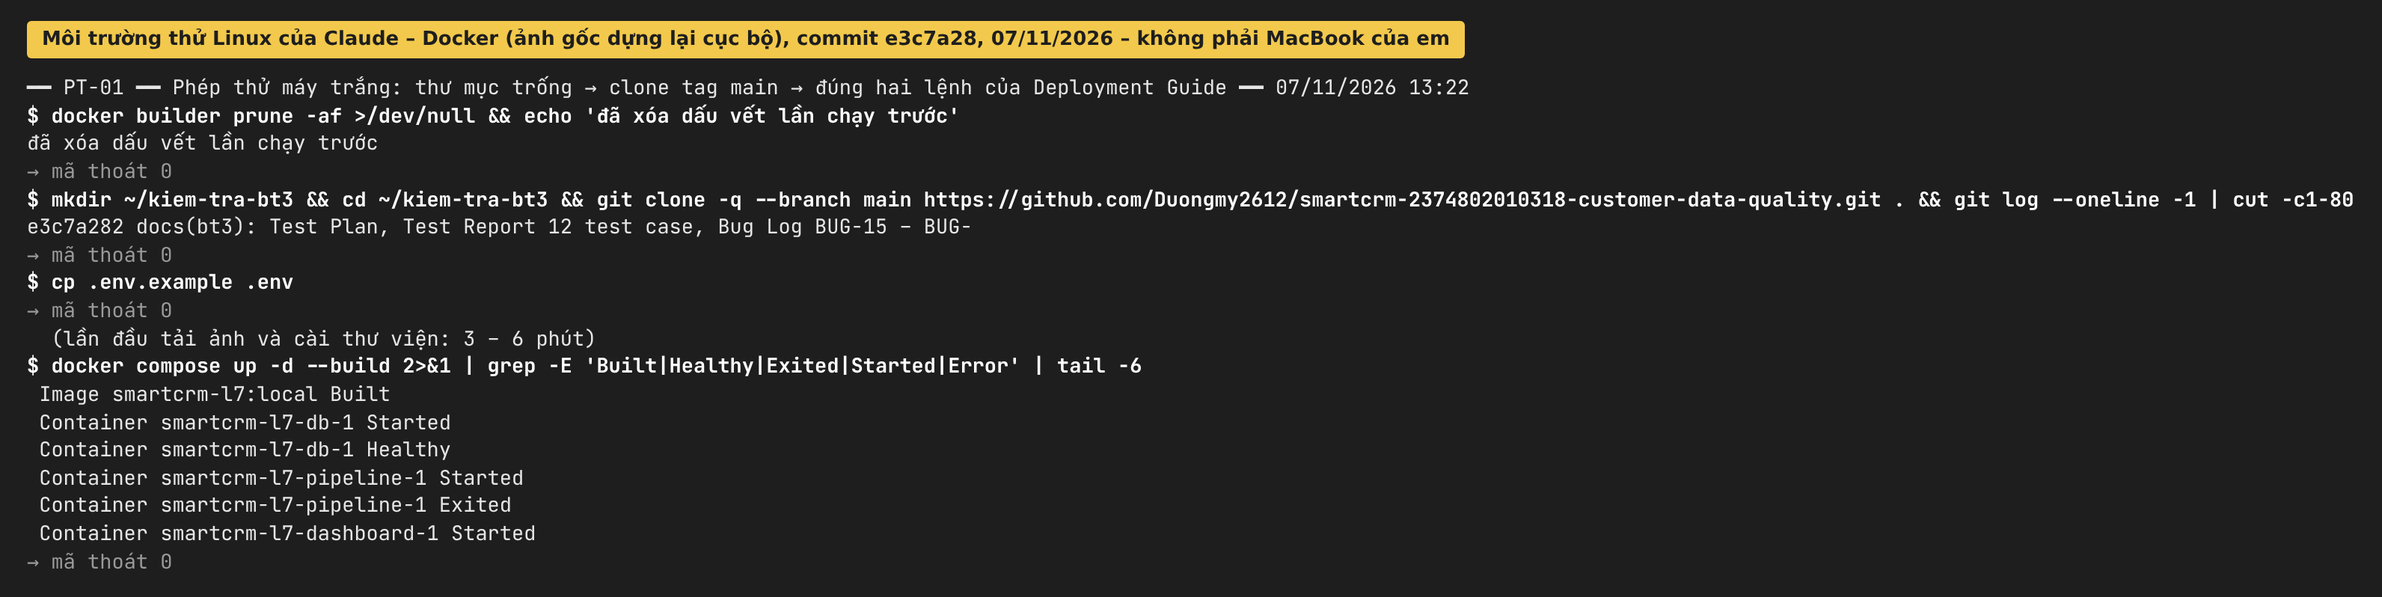
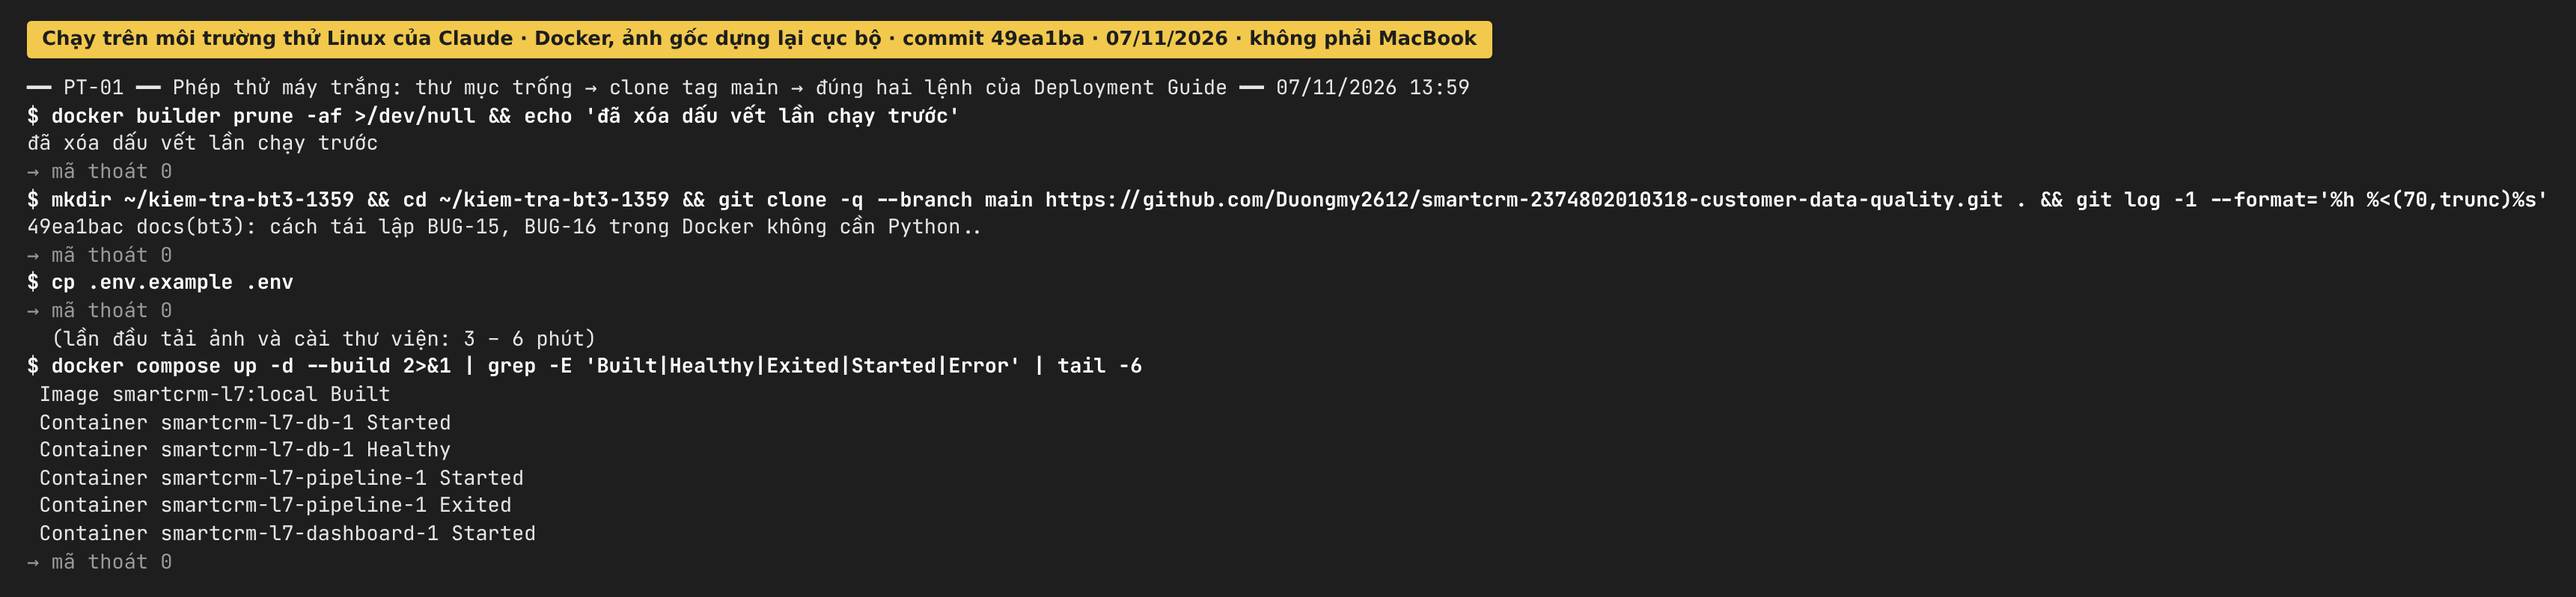
docs(bt3): ảnh PT-01 … PT-07, TC-01 … TC-12 từ một lần chạy liền ở commit 49ea1ba
Chạy script phép thử máy trắng trên môi trường thử (clone mới nhánh main, hai lệnh của Guide, tám bước kiểm tra,
lần chạy 1 trên mã nguồn 574bfd0, 12 test case, chạy lại, mất CSDL): 12/12 PASS, TC-09 và TC-12 ở 574bfd0 FAIL,
pytest 194 passed 3 skipped, chạy lại mọi bảng +0. Đầu ra dòng lệnh vẽ thành ảnh, nhãn vàng ghi nơi chạy và commit;
ảnh dashboard chụp bằng Chromium, có nhãn. TC-08 nay có bước nạp sẵn 414 dòng.

Claude-Session: https://claude.ai/code/session_01PMTm2ef48EpwJnyuXoDa6z

diff --git a/docs/screenshots/README.md b/docs/screenshots/README.md
@@ -6,7 +6,10 @@ Deployment Guide mục 5).
 
 **Cách tạo ảnh hiện có.** Lệnh chạy thật; đầu ra dòng lệnh được lưu thành tệp văn bản rồi **vẽ thành ảnh PNG** (không
 phải ảnh chụp màn hình), riêng `PT-06-dashboard.png` là ảnh chụp trình duyệt Chromium. Mỗi ảnh có nhãn vàng ghi nơi
-chạy, commit và ngày, để không lẫn với ảnh chụp trên MacBook.
+chạy, commit và ngày, để không lẫn với ảnh chụp trên MacBook. Các ảnh `PT-xx`, `TC-xx` là **một lần chạy liền** của
+script phép thử máy trắng (clone mới nhánh `main` ở commit `49ea1ba`, ngày 07/11/2026): 12/12 test case PASS, pytest
+194 passed, 3 skipped. Cùng lần đó làm lại lần chạy 1 trong Docker (mã nguồn `574bfd0`): TC-09, TC-12 FAIL như ảnh
+`…-lan1-FAIL.png`.
 
 | Ảnh | Nội dung | Nơi chạy · cách tạo ảnh |
 |---|---|---|
